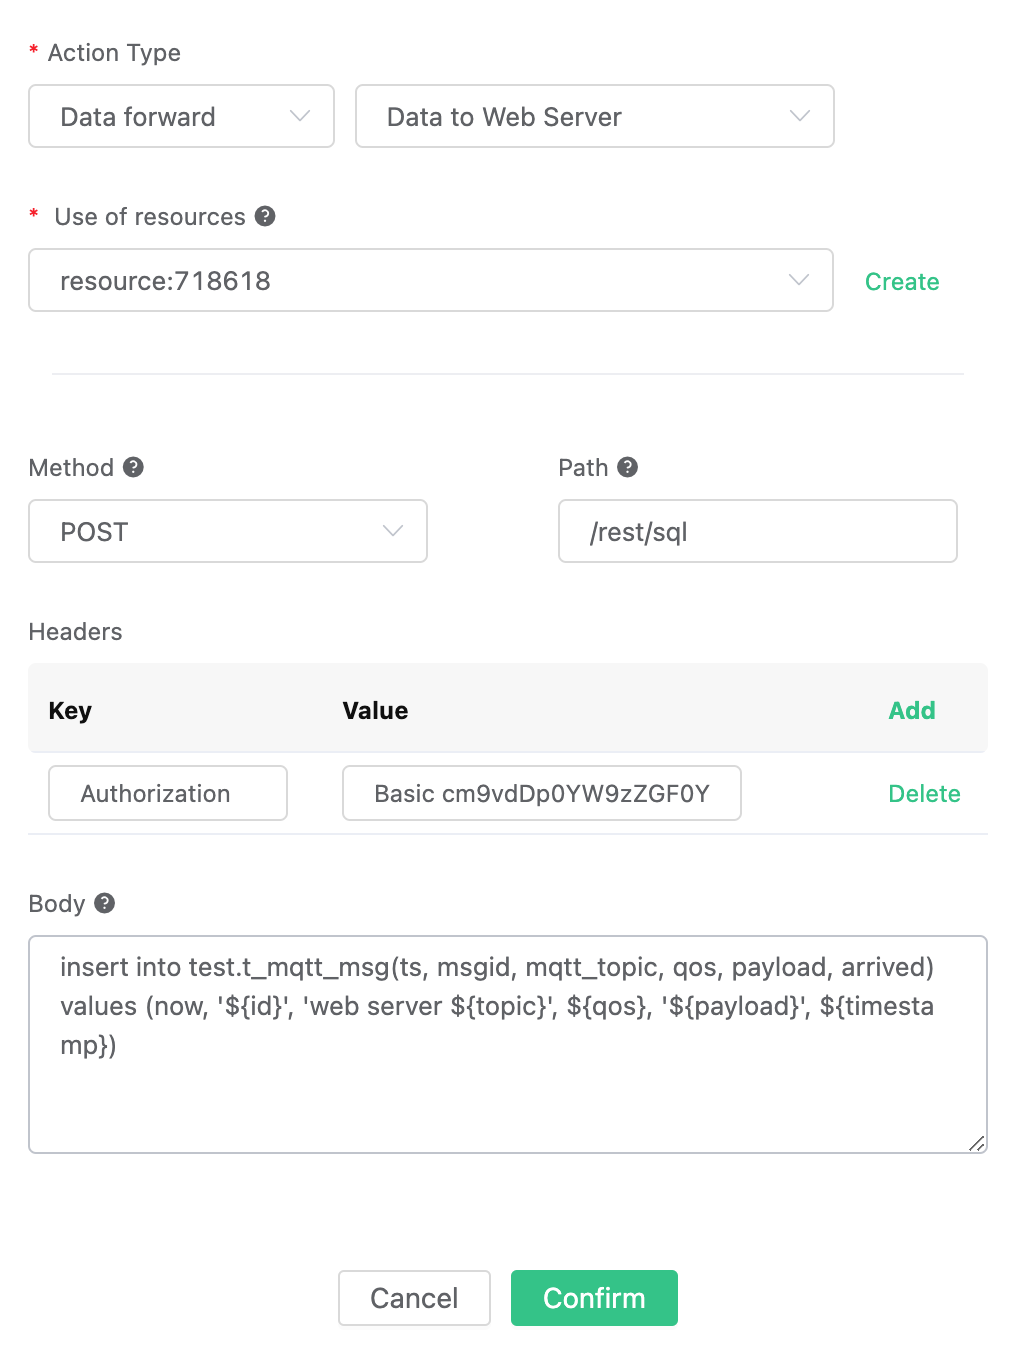
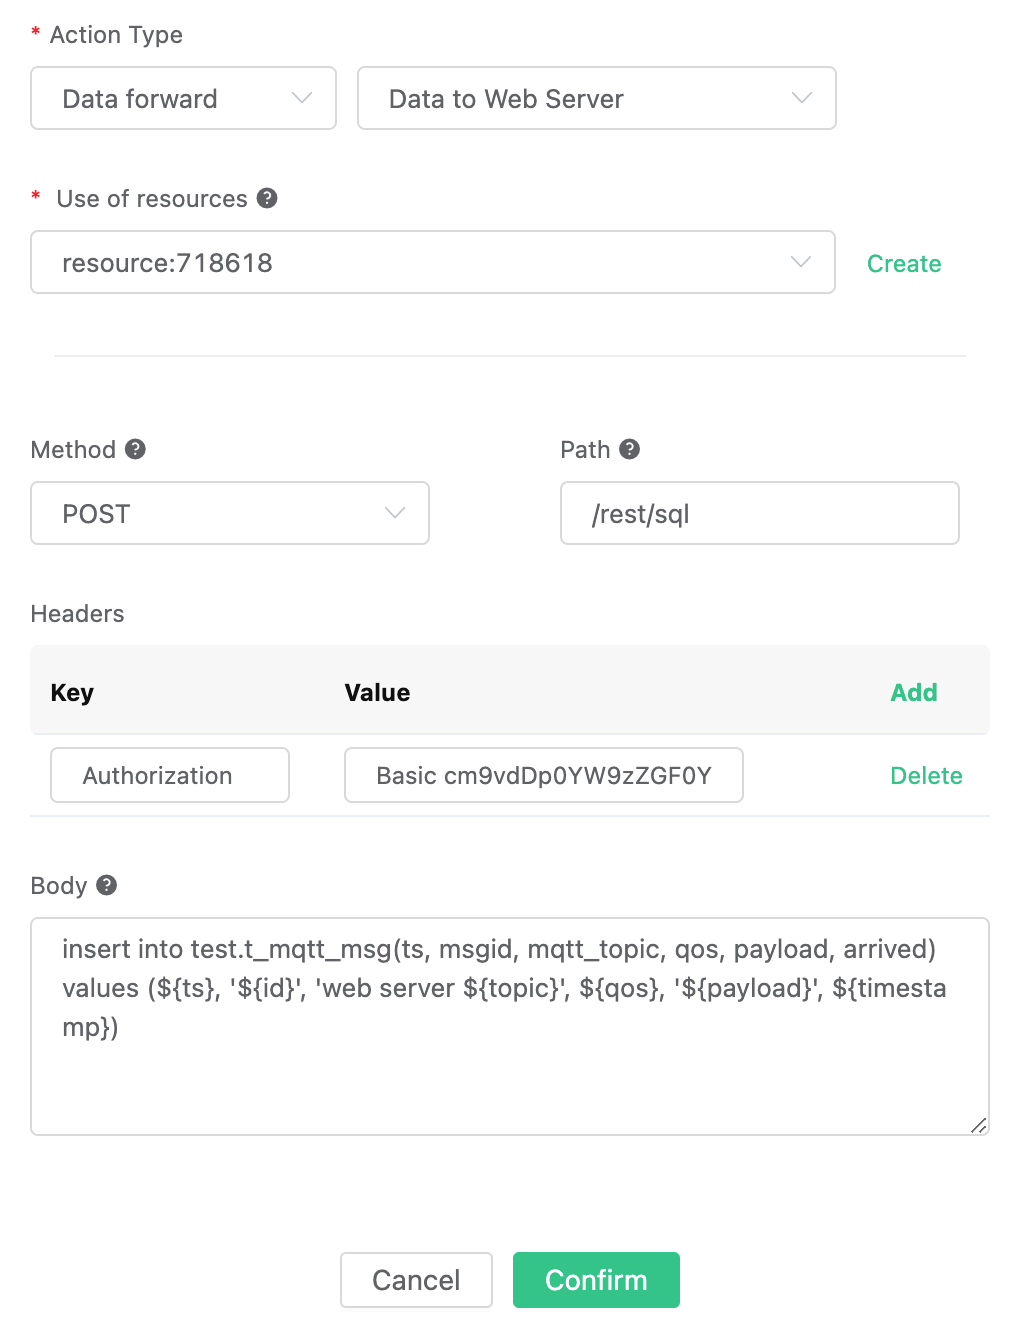
fix: some bad pic & better sql

diff --git a/en_US/rule/backend_tdengine.md b/en_US/rule/backend_tdengine.md
@@ -47,7 +47,14 @@ Open [EMQX Dashboard](http://127.0.0.1:18083/#/rules). Click `Rule`.
 Write SQL:
 
 ```sql
-SELECT * FROM "t/#"
+SELECT
+
+  *,
+  now_timestamp('millisecond')  as ts
+
+FROM
+
+  "#"
 ```
 
 ![image](./assets/rule-engine/TDengine/td_new_reul.png)
@@ -69,7 +76,7 @@ Action parameters:
 1. SQL template. In this example we insert a data to TDengine, note that we should specify the database name in the SQL and the character type should be enclosed in single quotes, the SQL template:
 
 ```sql
-insert into test.t_mqtt_msg(ts, msgid, mqtt_topic, qos, payload, arrived) values (now, '${id}', '${topic}', ${qos}, '${payload}', ${timestamp})
+insert into test.t_mqtt_msg(ts, msgid, mqtt_topic, qos, payload, arrived) values (${ts}, '${id}', '${topic}', ${qos}, '${payload}', ${timestamp})
 ```
 
 2. Now that the resource drop-down box is empty, you can create a TDengine resource by clicking on `Create` in the upper right corner:
@@ -112,8 +119,8 @@ Click `Data persist`, Choice `Data to Web Server`.
 5. Body: Request Body. In this example we are inserting a piece of data into TDengine, which should carry the INSERT SQL within the request body, noting that we should specify the database name in the SQL and the character type should be enclosed in single quotes, with the message content template as follows
 
 ```sql
--- Note: the topic is added as an identifier because in this example we will have two resources written to TDengine at the same time, and the identifier distinguishes between the data written natively and by the Web Server
-insert into test.t_mqtt_msg(ts, msgid, mqtt_topic, qos, payload, arrived) values (now, '${id}', 'http server ${topic}', ${qos}, '${payload}', ${timestamp})
+-- Note: the topic is added as an identifier because in this example we will have two resources written to TDengine, and the identifier distinguishes between the data written natively and by the Web Server
+insert into test.t_mqtt_msg(ts, msgid, mqtt_topic, qos, payload, arrived) values (${ts}, '${id}', 'http server ${topic}', ${qos}, '${payload}', ${timestamp})
 ```
 
 ![image](./assets/rule-engine/TDengine/create_data_towebserver.png)

diff --git a/zh_CN/rule/backend_tdengine.md b/zh_CN/rule/backend_tdengine.md
@@ -42,7 +42,14 @@ CREATE TABLE t_mqtt_msg (
 填写规则 SQL:
 
 ```sql
-SELECT * FROM "t/#"
+SELECT
+
+  *,
+  now_timestamp('millisecond')  as ts
+
+FROM
+
+  "#"
 ```
 
 ![image](./assets/rule-engine/rule_sql.png)
@@ -64,7 +71,7 @@ SELECT * FROM "t/#"
 1. SQL 模板。这个例子里我们向 TDengine 插入一条数据，注意我们应当在 SQL 中指定数据库名，字符类型也要用单引号括起来，SQL 模板为：
 
 ```sql
-insert into test.t_mqtt_msg(ts, msgid, mqtt_topic, qos, payload, arrived) values (now, '${id}', '${topic}', ${qos}, '${payload}', ${timestamp})
+insert into test.t_mqtt_msg(ts, msgid, mqtt_topic, qos, payload, arrived) values (${ts}, '${id}', '${topic}', ${qos}, '${payload}', ${timestamp})
 ```
 
 2. 关联资源的 ID。现在资源下拉框为空，可以点击右上角的 “新建资源” 来创建一个 TDengine资源:
@@ -107,8 +114,8 @@ EMQX 规则引擎中有功能强大的***\*发送数据到 Web 服务功能\****
   这个例子里我们向 TDengine 插入一条数据，应当在请求体内拼接携带 INSERT SQL 。注意我们应当在 SQL 中指定数据库名，字符类型也要用单引号括起来，消息内容模板为：
 
 ```sql
--- 注意：topic 处添加了作为标识，因为此示例中我们会有两个资源同时写入 TDengine，标识区分了原生方式与 Web Server 写入的数据
-insert into test.t_mqtt_msg(ts, msgid, mqtt_topic, qos, payload, arrived) values (now, '${id}', 'http server ${topic}', ${qos}, '${payload}', ${timestamp})
+-- 注意：topic 处添加了作为标识，因为此示例中我们会有两个资源写入 TDengine，标识区分了原生方式与 Web Server 写入的数据
+insert into test.t_mqtt_msg(ts, msgid, mqtt_topic, qos, payload, arrived) values (${ts}, '${id}', 'http server ${topic}', ${qos}, '${payload}', ${timestamp})
 ```
 
 ![image](./assets/rule-engine/TDengine/create_data_towebserver.png)
